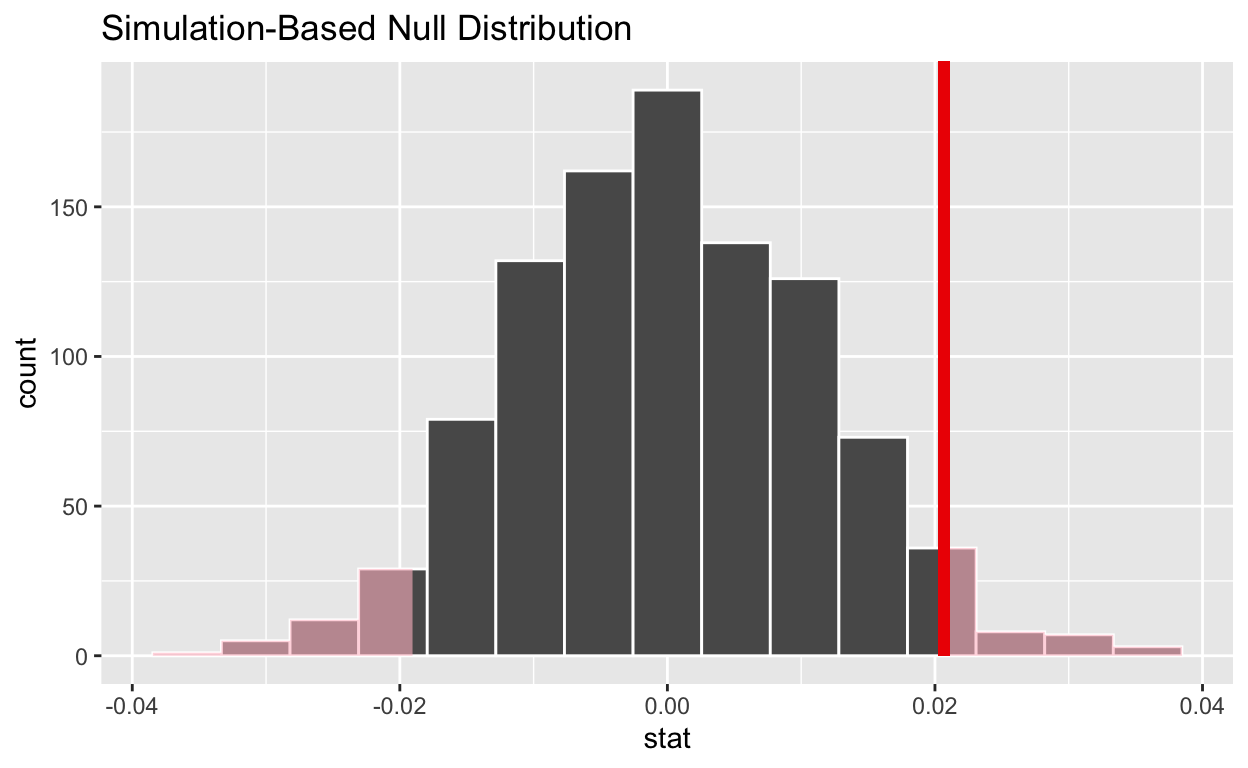
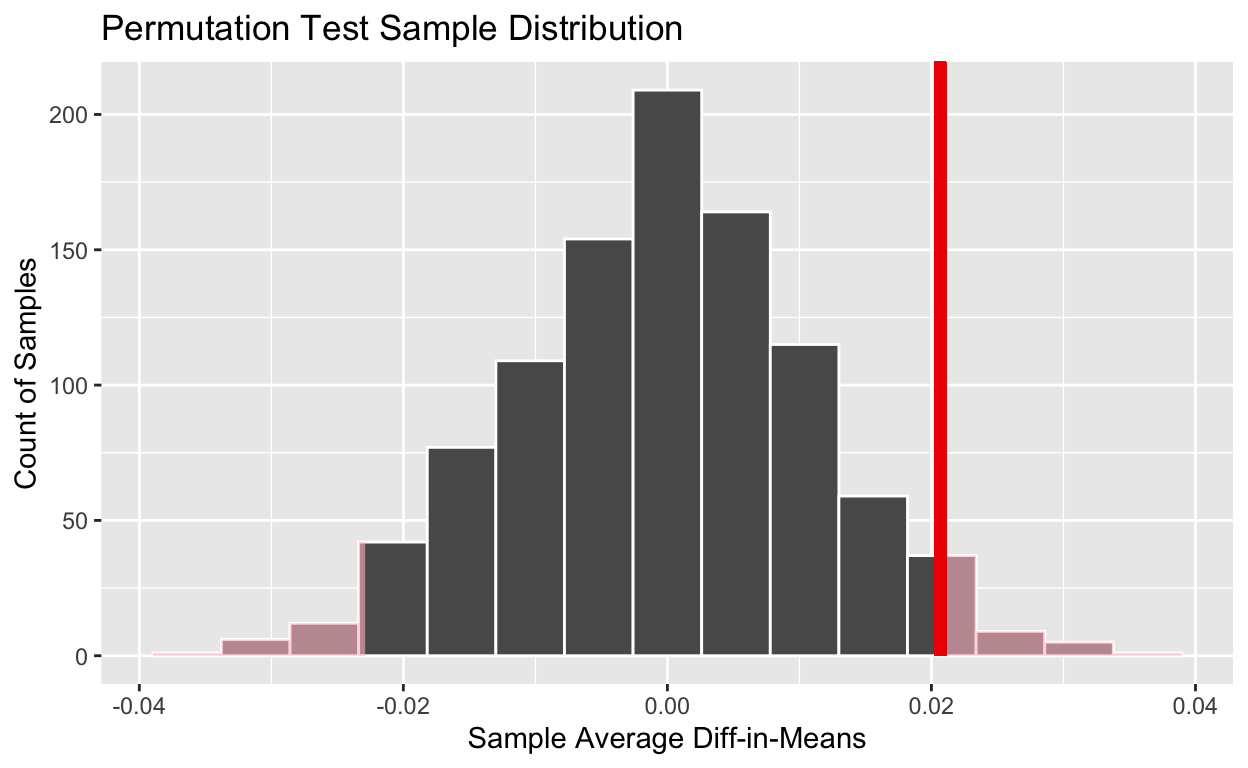
Updated some of the explanations of the visuals and some of the visuals themselves.

diff --git a/index.html b/index.html
@@ -1521,8 +1521,8 @@ code span.wa { color: #5e5e5e; font-style: italic; } /* Warning */
 <div class="d-article">
 <h2 id="introduction">Introduction</h2>
 <p>For this research paper, the main question is: Are military-affiliated voters more likely to vote for fellow military veterans running for federal office (House of Representatives and Senate) than voters that have no military affiliation? In this study, I seek to show that voters with prior or current military affiliation are more likely to vote for candidates that are themselves miliatry veterans than voters that have no military affiliation through their own service. My hypotheses are as follows:</p>
-<p>Null: there is no difference in voting patterns for military veteran candidates between voters that have military service and voters that do not
-Alternative: military-affiliated voters are more likely to vote for fellow veterans than non-military-affiliated voters.</p>
+<p>Null: there is no difference in voting patterns for military veteran candidates between voters that have military service and voters that do not</p>
+<p>Alternative: military-affiliated voters are more likely to vote for fellow veterans than non-military-affiliated voters.</p>
 <p>This research question and hypothesis are important because they could have impacts on political races going into the future. As the wars in the Middle East that have been being fought for the last 20-some years come to a close, more military veterans will be getting out of the military and going into other lines of work. One profession that draws a fair amount of military talent is politics. It would be a huge leg up if military veteran candidates were more likely to get a portion of the vote just based off their prior work experience, regardless of political party affiliation, where their opponent does not have that luxury.</p>
 <h2 id="data-section">Data Section</h2>
 <p>My data comes from a CCES 2022 survey, which includes a person’s history with the military (i.e. currently serving, used to serve, never served), their political leanings, the candidates on which they voted for each election (House, Senate, President, Governor), and who the other candidate(s) were in those elections.</p>
@@ -1878,7 +1878,7 @@ RMSE
 <span><span class='va'>values</span> <span class='op'>&lt;-</span> <span class='fu'><a href='https://rdrr.io/r/base/data.frame.html'>data.frame</a></span><span class='op'>(</span><span class='va'>se_diff</span>, <span class='va'>z_score</span>, <span class='va'>p_val</span>, <span class='va'>ci_lower</span><span class='op'>$</span><span class='va'>stat</span>, <span class='va'>ci_upper</span><span class='op'>$</span><span class='va'>stat</span><span class='op'>)</span></span>
 <span></span>
 <span><span class='va'>value_table</span> <span class='op'>&lt;-</span> <span class='fu'>knitr</span><span class='fu'>::</span><span class='fu'><a href='https://rdrr.io/pkg/knitr/man/kable.html'>kable</a></span><span class='op'>(</span><span class='va'>values</span>,</span>
-<span>             col.names <span class='op'>=</span> <span class='fu'><a href='https://rdrr.io/r/base/c.html'>c</a></span><span class='op'>(</span><span class='st'>"Standard Error"</span>, <span class='st'>"Z-Score"</span>, <span class='st'>"P-Value"</span>, <span class='st'>"Lower Confidence Interval"</span>, <span class='st'>"Upper Confidence Interval"</span><span class='op'>)</span><span class='op'>)</span></span>
+<span>             col.names <span class='op'>=</span> <span class='fu'><a href='https://rdrr.io/r/base/c.html'>c</a></span><span class='op'>(</span><span class='st'>"Standard Error"</span>, <span class='st'>"Z-Score"</span>, <span class='st'>"P-Value"</span>, <span class='st'>"Lower 95% Confidence Interval"</span>, <span class='st'>"Upper 95% Confidence Interval"</span><span class='op'>)</span><span class='op'>)</span></span>
 <span><span class='va'>value_table</span></span></code></pre>
 </div>
 <table>
@@ -1894,10 +1894,10 @@ Z-Score
 P-Value
 </th>
 <th style="text-align:right;">
-Lower Confidence Interval
+Lower 95% Confidence Interval
 </th>
 <th style="text-align:right;">
-Upper Confidence Interval
+Upper 95% Confidence Interval
 </th>
 </tr>
 </thead>
@@ -1966,10 +1966,10 @@ upper_ci
 <tbody>
 <tr>
 <td style="text-align:right;">
--0.0219224
+-0.0228796
 </td>
 <td style="text-align:right;">
-0.0206885
+0.0206766
 </td>
 </tr>
 </tbody>
@@ -1988,13 +1988,13 @@ p_value
 <tbody>
 <tr>
 <td style="text-align:right;">
-0.052
+0.06
 </td>
 </tr>
 </tbody>
 </table>
 </div>
-<p>Additionally, to increase the confidence that we cannot reject the null hypothesis, even though the results are close, the p-value from the permutation test is still above our alpha of 0.05.</p>
+<p>Additionally, to increase the confidence that we cannot reject the null hypothesis, even though the results are close, the p-value from the permutation test is still above our alpha of 0.05. Therefore, based off of our chosen alpha and the results of the permutation test, we cannot rule out that the 0.0207 estimated average treatment effect that we observed in our data set happened by chance, and that there really is no difference betweeen military-affiliated voters and voters with no military affiliation when it comes to voting for candidates that are themselves military veterans.</p>
 <div class="sourceCode" id="cb1"><pre class="sourceCode r distill-force-highlighting-css"><code class="sourceCode r"></code></pre></div>
 <!--radix_placeholder_article_footer-->
 <!--/radix_placeholder_article_footer-->
